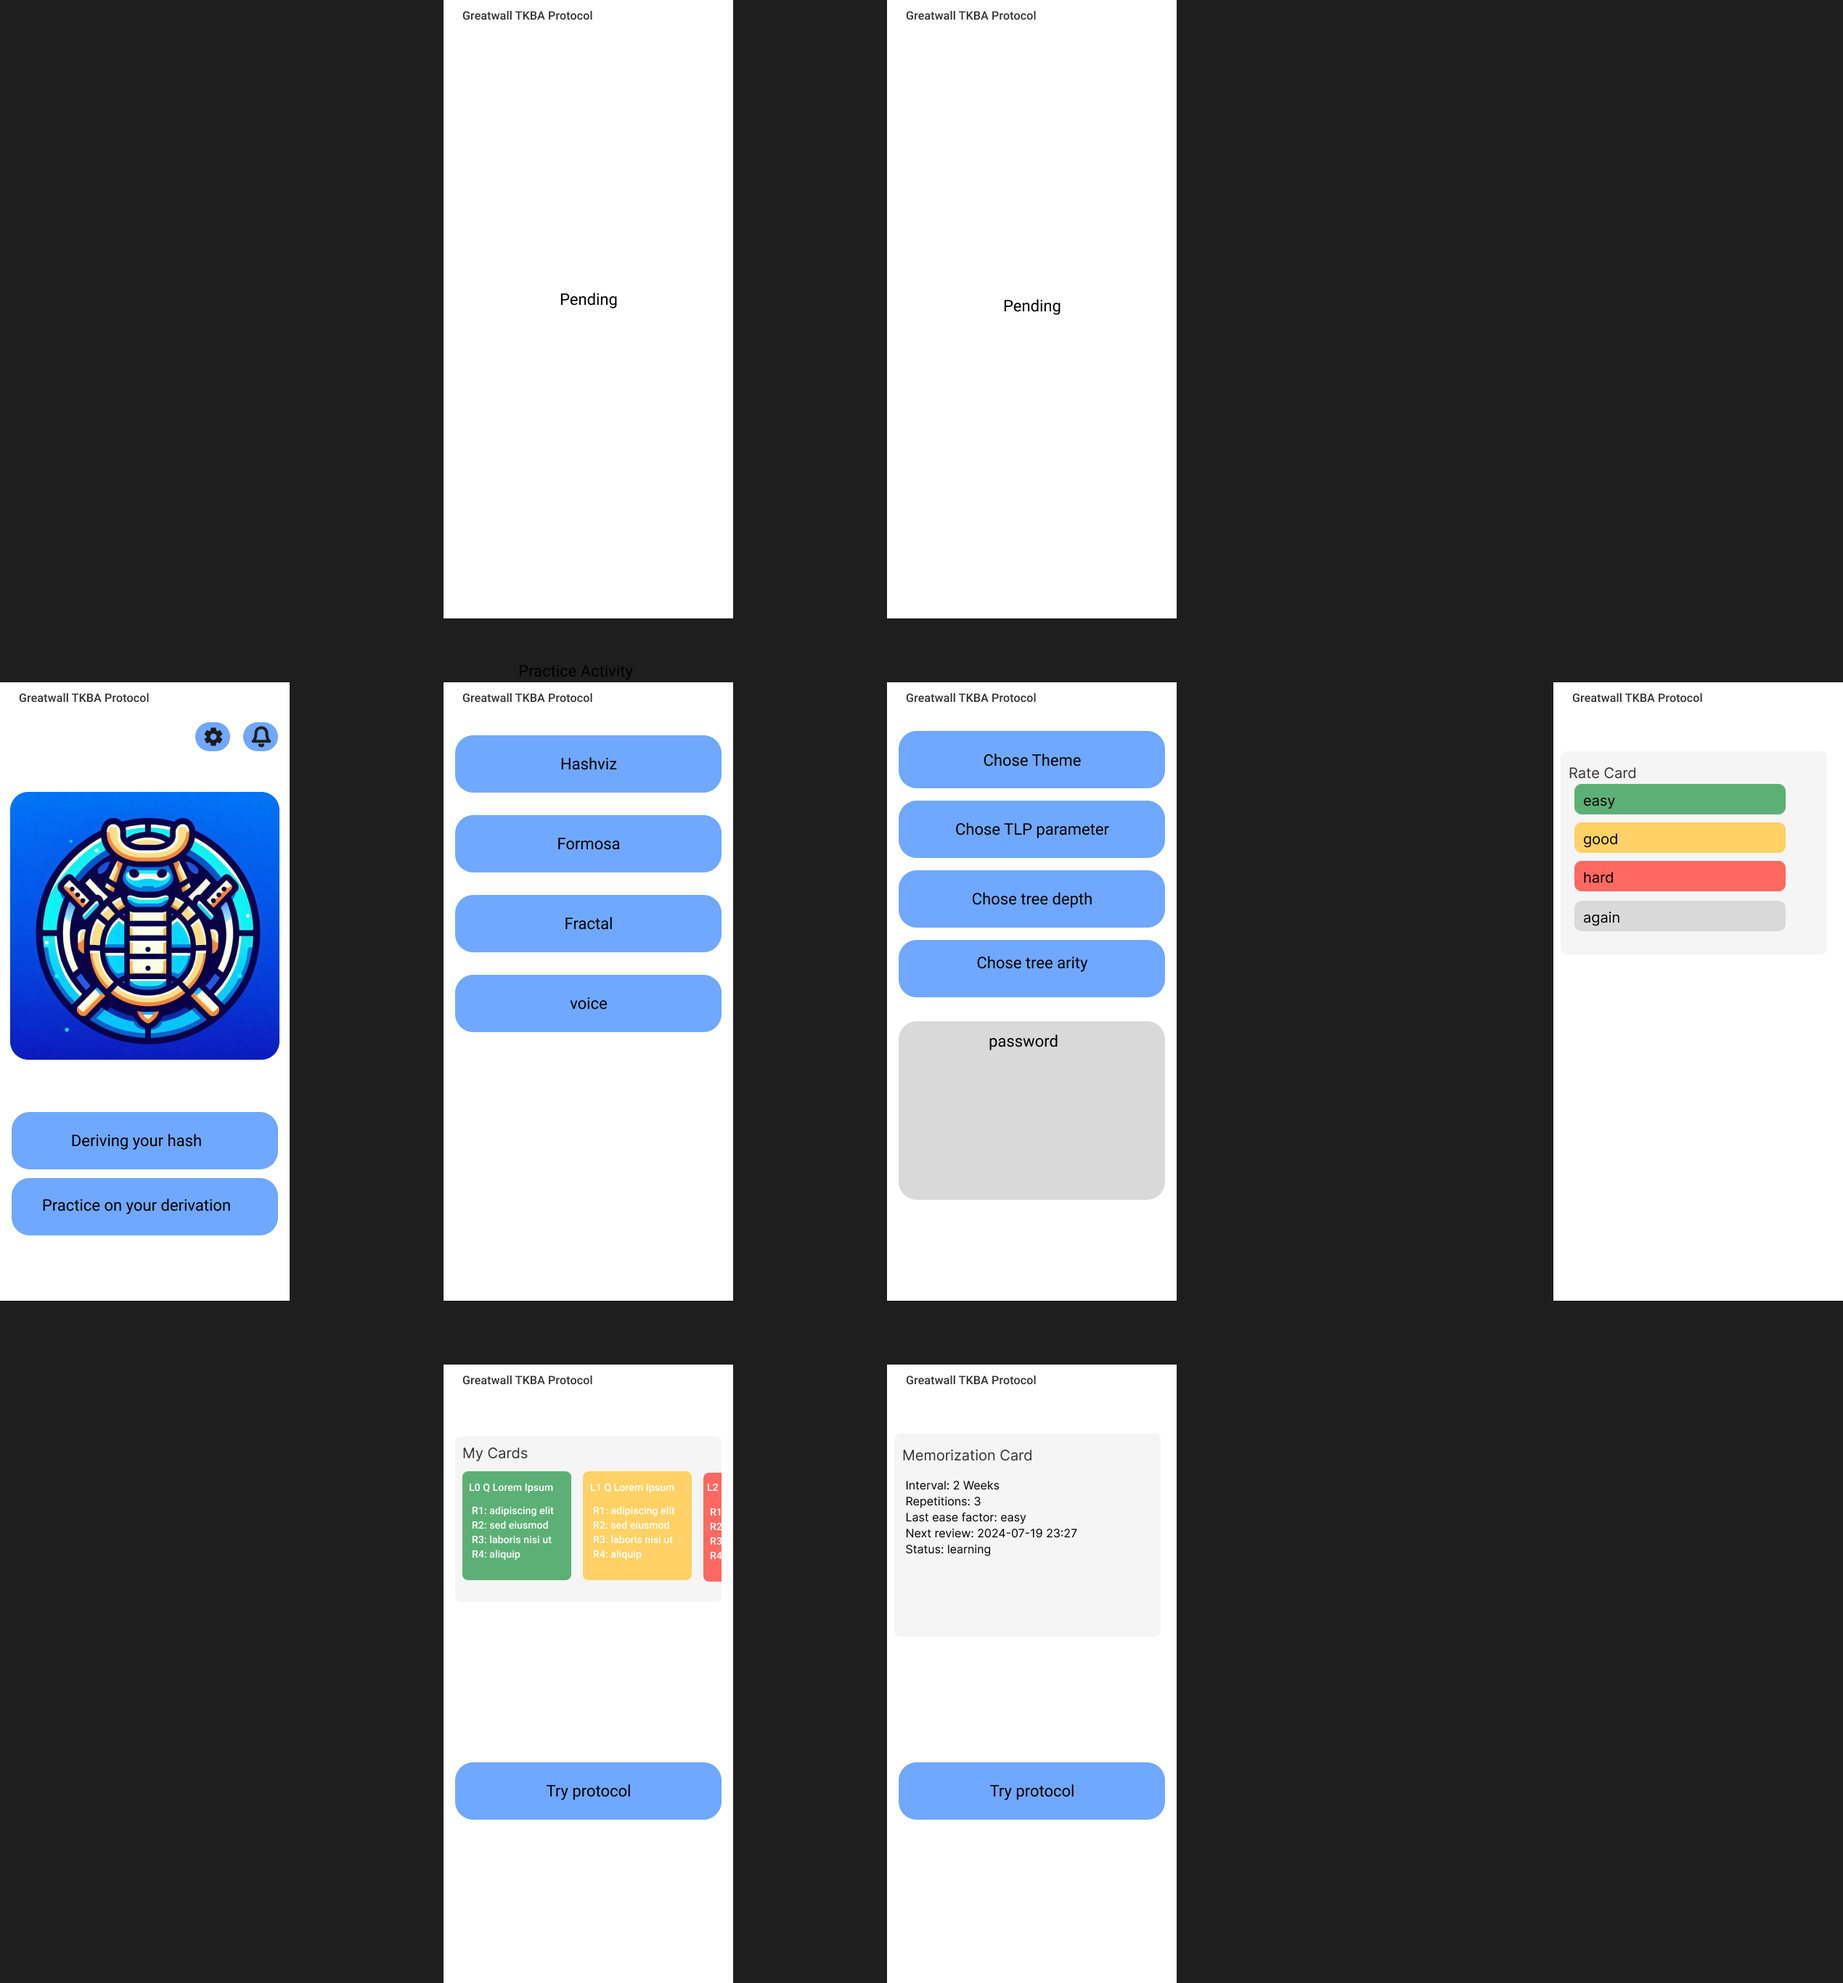
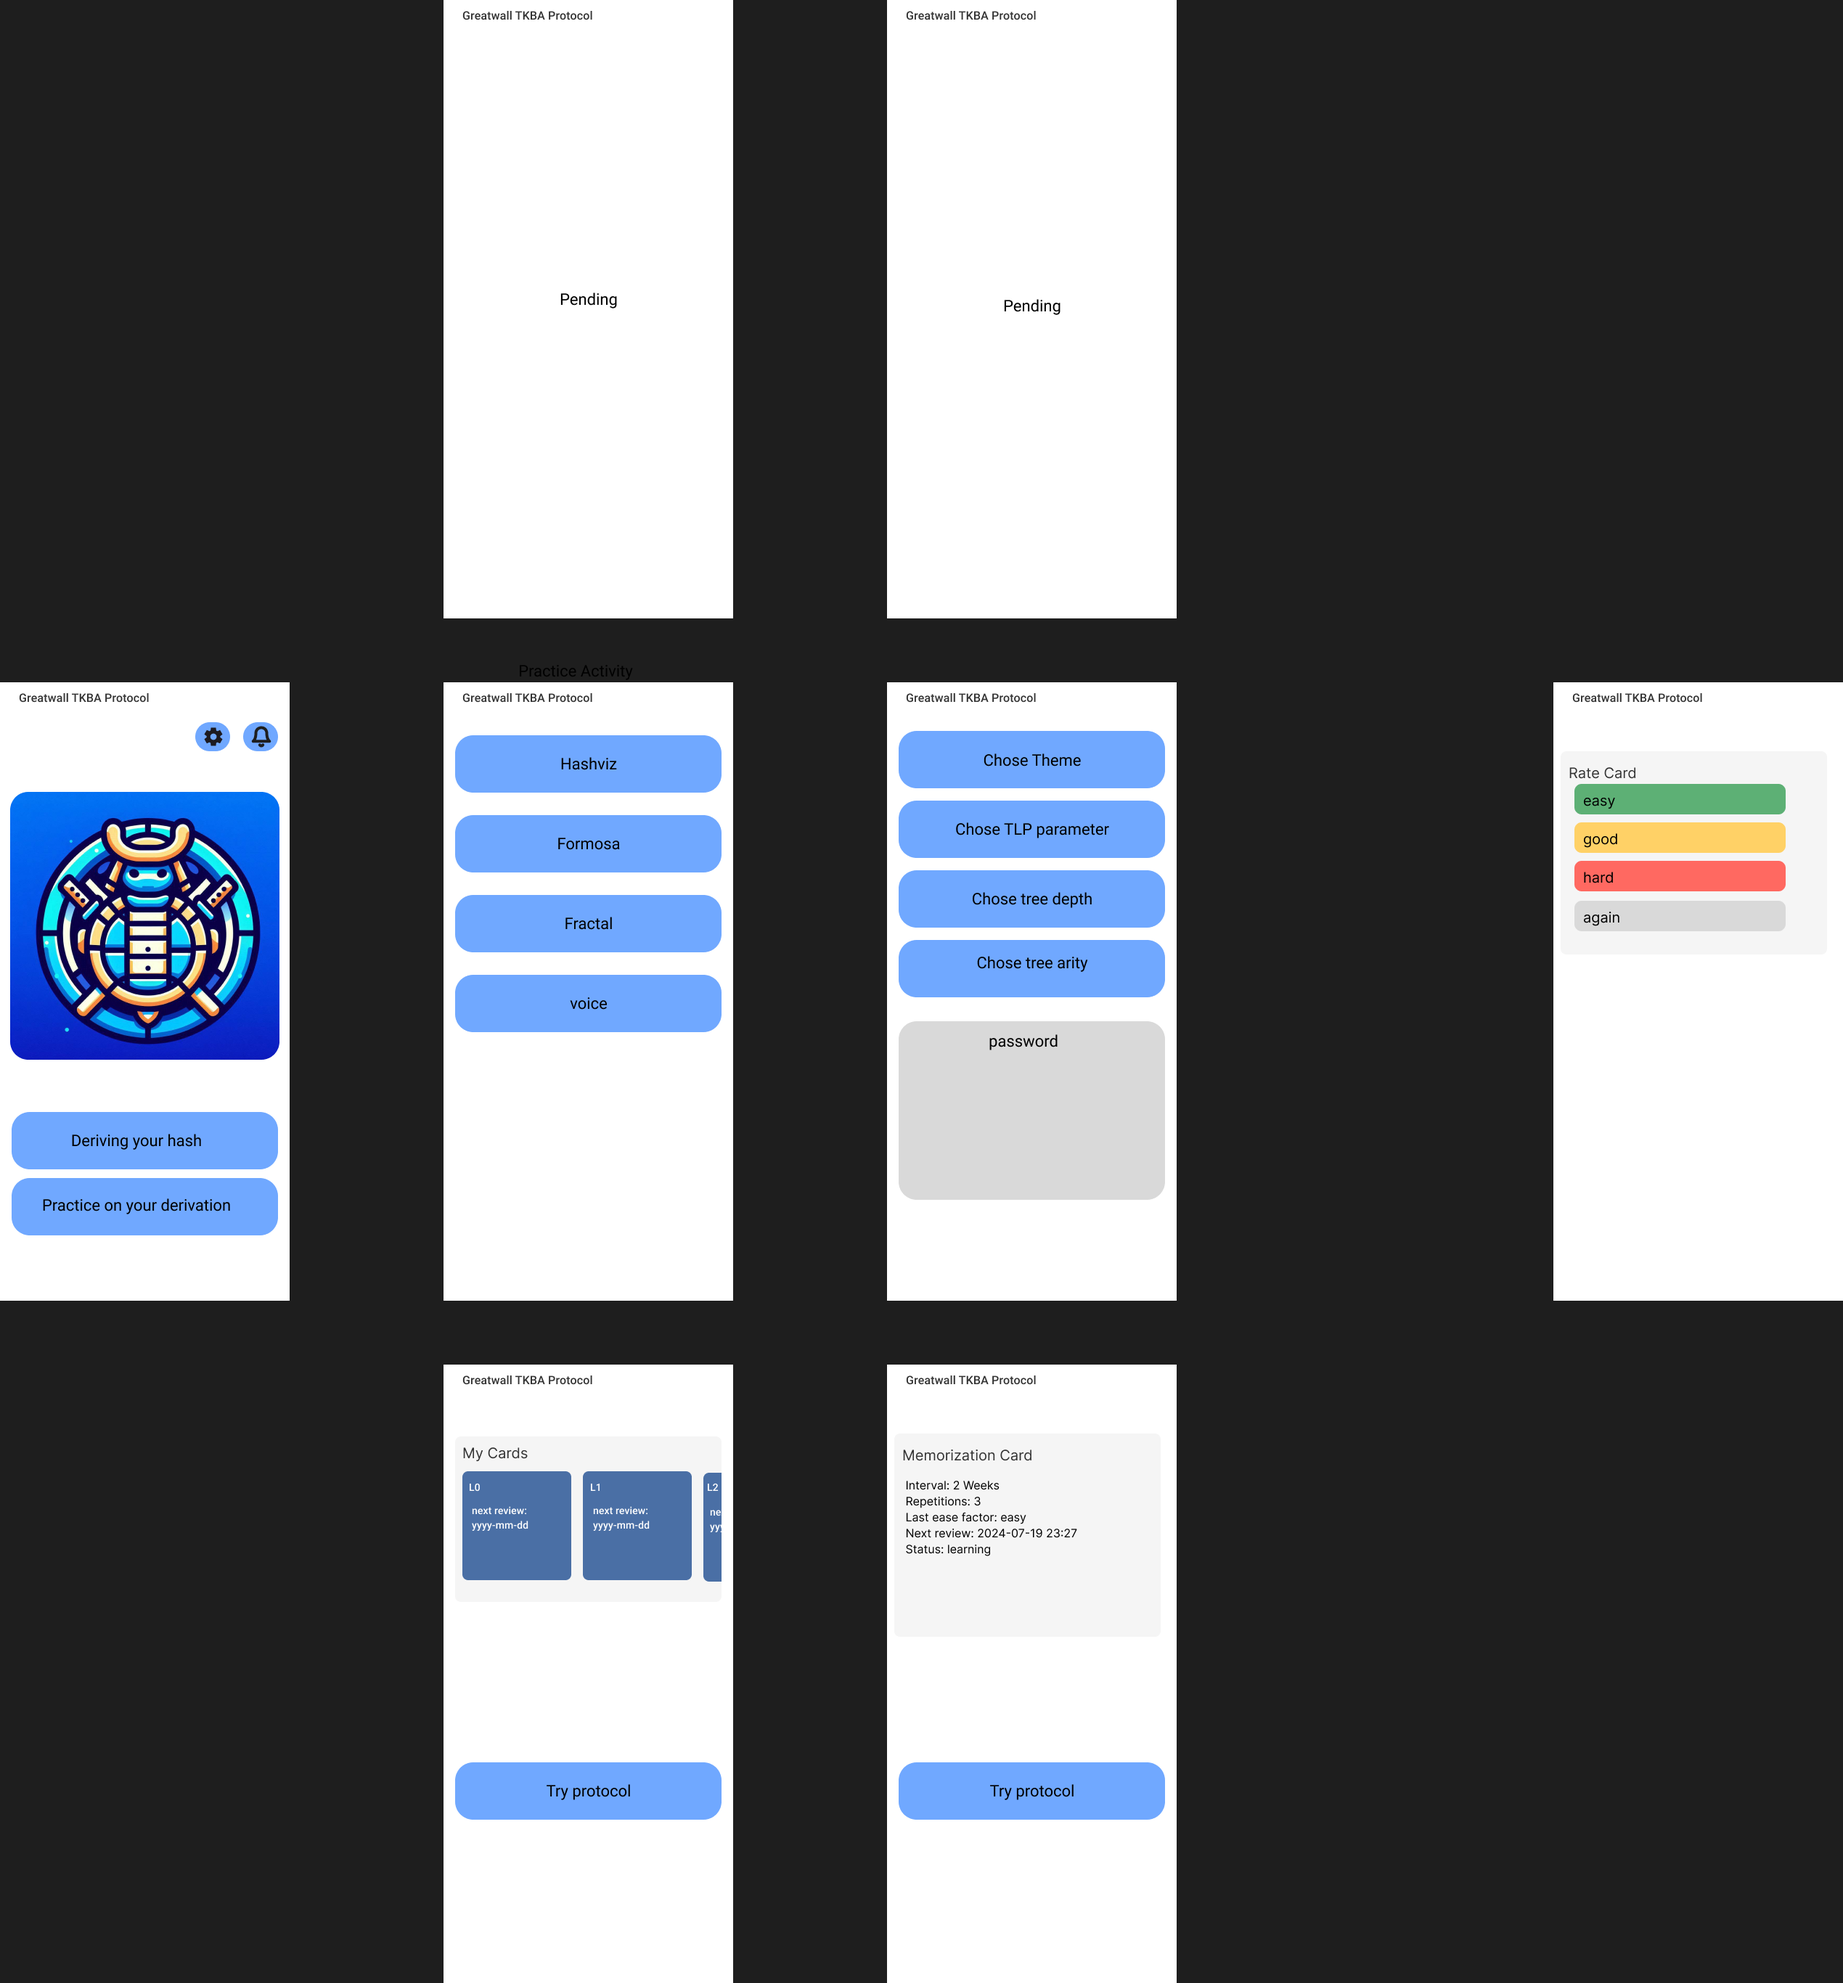
Span the available horizontal space for AllCards frame. Remove cards colors. Change cards title and description.

Changed region(s): [[0.2489, 0.7156, 0.4045, 0.8089]]

diff --git a/memorization_assistant_flutter/test/memorization_deck_activity_test.dart b/memorization_assistant_flutter/test/memorization_deck_activity_test.dart
@@ -3,7 +3,9 @@ import 'package:flutter_test/flutter_test.dart';
 import 'package:memorization_assistant_flutter/memorization_deck_activity.dart';
 
 void main() {
-  testWidgets('MemorizationDeckActivity has a title and displays elements correctly', (WidgetTester tester) async {
+  testWidgets(
+      'MemorizationDeckActivity has a title and displays elements correctly',
+      (WidgetTester tester) async {
     await tester.pumpWidget(
       const MaterialApp(
         home: MemorizationDeckActivity(),
@@ -17,41 +19,37 @@ void main() {
     expect(find.byType(ElevatedButton), findsOneWidget);
     expect(find.text('Try protocol'), findsOneWidget);
 
-    expect(find.text('L0 Q Lorem Ipsum'), findsNWidgets(3));
-    expect(find.text('R1: adipiscing elit\nR2: sed eiusmod\nR3: laboris nisi ut\nR4: aliquip'), findsNWidgets(3));
+    expect(find.textContaining('L'), findsNWidgets(6));
+    expect(find.text('Next review:\nyyyy-mm-dd'), findsNWidgets(6));
   });
 
-  testWidgets('MemorizationDeckActivity has three cards with different colors', (WidgetTester tester) async {
+  testWidgets('MemorizationDeckActivity has cards with the correct color',
+      (WidgetTester tester) async {
     await tester.pumpWidget(
       const MaterialApp(
         home: MemorizationDeckActivity(),
       ),
     );
 
-    // Find all card containers
-    final cardContainers = tester.widgetList<Container>(find.byType(Container)).where((container) {
-      return container.decoration is BoxDecoration;
+    final cardContainers =
+        tester.widgetList<Container>(find.byType(Container)).where((container) {
+      final decoration = container.decoration as BoxDecoration?;
+      return decoration != null && decoration.color == const Color(0xFF4A6FA5);
     }).toList();
 
-    expect(cardContainers.length, 4); // 3 cards + 1 main container
-
-    final cardColors = cardContainers.map((container) {
-      final decoration = container.decoration as BoxDecoration;
-      return decoration.color;
-    }).toList();
-
-    expect(cardColors, containsAll([const Color(0xFF5DB075), const Color(0xFFFFD166), const Color(0xFFFF6961)]));
+    expect(cardContainers.length, 6);
   });
 
-  testWidgets('MemorizationDeckActivity horizontal scroll works', (WidgetTester tester) async {
+  testWidgets('MemorizationDeckActivity horizontal scroll works',
+      (WidgetTester tester) async {
     await tester.pumpWidget(
       const MaterialApp(
         home: MemorizationDeckActivity(),
       ),
     );
 
-    final cardContainerFinder = find.byWidgetPredicate((widget) =>
-      widget is Container && widget.decoration is BoxDecoration);
+    final cardContainerFinder = find.byWidgetPredicate(
+        (widget) => widget is Container && widget.decoration is BoxDecoration);
 
     final scrollableFinder = find.descendant(
       of: cardContainerFinder,
@@ -64,7 +62,8 @@ void main() {
     expect(scrollable.scrollDirection, Axis.horizontal);
   });
 
-  testWidgets('MemorizationDeckActivity button press works', (WidgetTester tester) async {
+  testWidgets('MemorizationDeckActivity button press works',
+      (WidgetTester tester) async {
     bool buttonPressed = false;
 
     await tester.pumpWidget(
@@ -80,7 +79,6 @@ void main() {
       ),
     );
 
-    // Verify that the button press changes the state
     await tester.tap(find.byType(ElevatedButton));
     await tester.pump();
 

diff --git a/memorization_assistant_flutter/lib/memorization_deck_activity.dart b/memorization_assistant_flutter/lib/memorization_deck_activity.dart
@@ -18,7 +18,8 @@ class MemorizationDeckActivity extends StatelessWidget {
             crossAxisAlignment: CrossAxisAlignment.center,
             children: <Widget>[
               Container(
-                width: 400,
+                //width: 400,
+                width: MediaQuery.of(context).size.width * 0.9,
                 padding: const EdgeInsets.all(16.0),
                 decoration: BoxDecoration(
                   color: const Color(0xFFF5F5F5),
@@ -36,20 +37,17 @@ class MemorizationDeckActivity extends StatelessWidget {
                       scrollDirection: Axis.horizontal,
                       child: Row(
                         children: <Widget>[
-                          _buildCard(
-                              'L0 Q Lorem Ipsum',
-                              'R1: adipiscing elit\nR2: sed eiusmod\nR3: laboris nisi ut\nR4: aliquip',
-                              const Color(0xFF5DB075)),
+                          _buildCard('L0', 'Next review:\nyyyy-mm-dd'),
                           const SizedBox(width: 10),
-                          _buildCard(
-                              'L0 Q Lorem Ipsum',
-                              'R1: adipiscing elit\nR2: sed eiusmod\nR3: laboris nisi ut\nR4: aliquip',
-                              const Color(0xFFFFD166)),
+                          _buildCard('L1', 'Next review:\nyyyy-mm-dd'),
                           const SizedBox(width: 10),
-                          _buildCard(
-                              'L0 Q Lorem Ipsum',
-                              'R1: adipiscing elit\nR2: sed eiusmod\nR3: laboris nisi ut\nR4: aliquip',
-                              const Color(0xFFFF6961)),
+                          _buildCard('L2', 'Next review:\nyyyy-mm-dd'),
+                          const SizedBox(width: 10),
+                          _buildCard('L3', 'Next review:\nyyyy-mm-dd'),
+                          const SizedBox(width: 10),
+                          _buildCard('L4', 'Next review:\nyyyy-mm-dd'),
+                          const SizedBox(width: 10),
+                          _buildCard('L5', 'Next review:\nyyyy-mm-dd'),
                         ],
                       ),
                     ),
@@ -75,12 +73,13 @@ class MemorizationDeckActivity extends StatelessWidget {
     );
   }
 
-  Widget _buildCard(String title, String content, Color backgroundColor) {
+  Widget _buildCard(String title, String content) {
     return Container(
-      width: 150,
+      width: 200,
+      height: 150,
       padding: const EdgeInsets.all(8.0),
       decoration: BoxDecoration(
-        color: backgroundColor,
+        color: const Color(0xFF4A6FA5),
         borderRadius: BorderRadius.circular(8.0),
         boxShadow: [
           BoxShadow(
@@ -95,10 +94,15 @@ class MemorizationDeckActivity extends StatelessWidget {
         children: <Widget>[
           Text(
             title,
-            style: const TextStyle(fontWeight: FontWeight.bold),
+            style: const TextStyle(
+                fontWeight: FontWeight.bold, color: Colors.white),
           ),
           const SizedBox(height: 5),
-          Text(content),
+          Text(
+            content,
+            style: const TextStyle(
+                fontWeight: FontWeight.bold, color: Colors.white),
+          ),
         ],
       ),
     );
